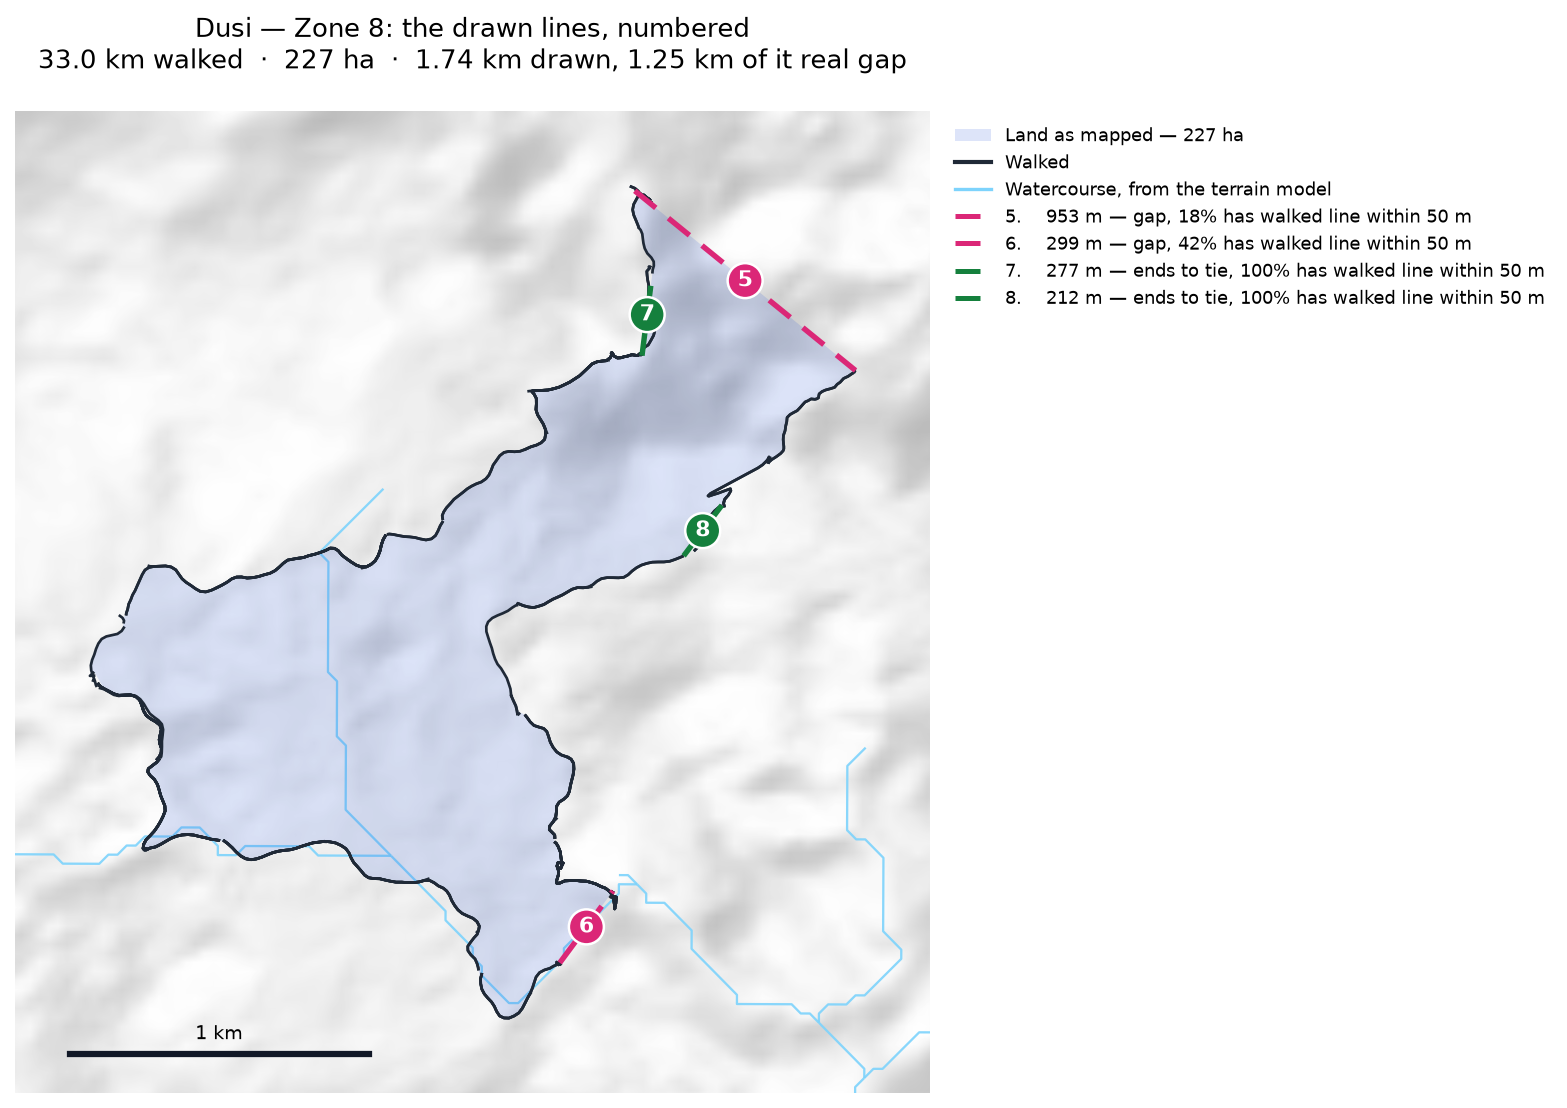
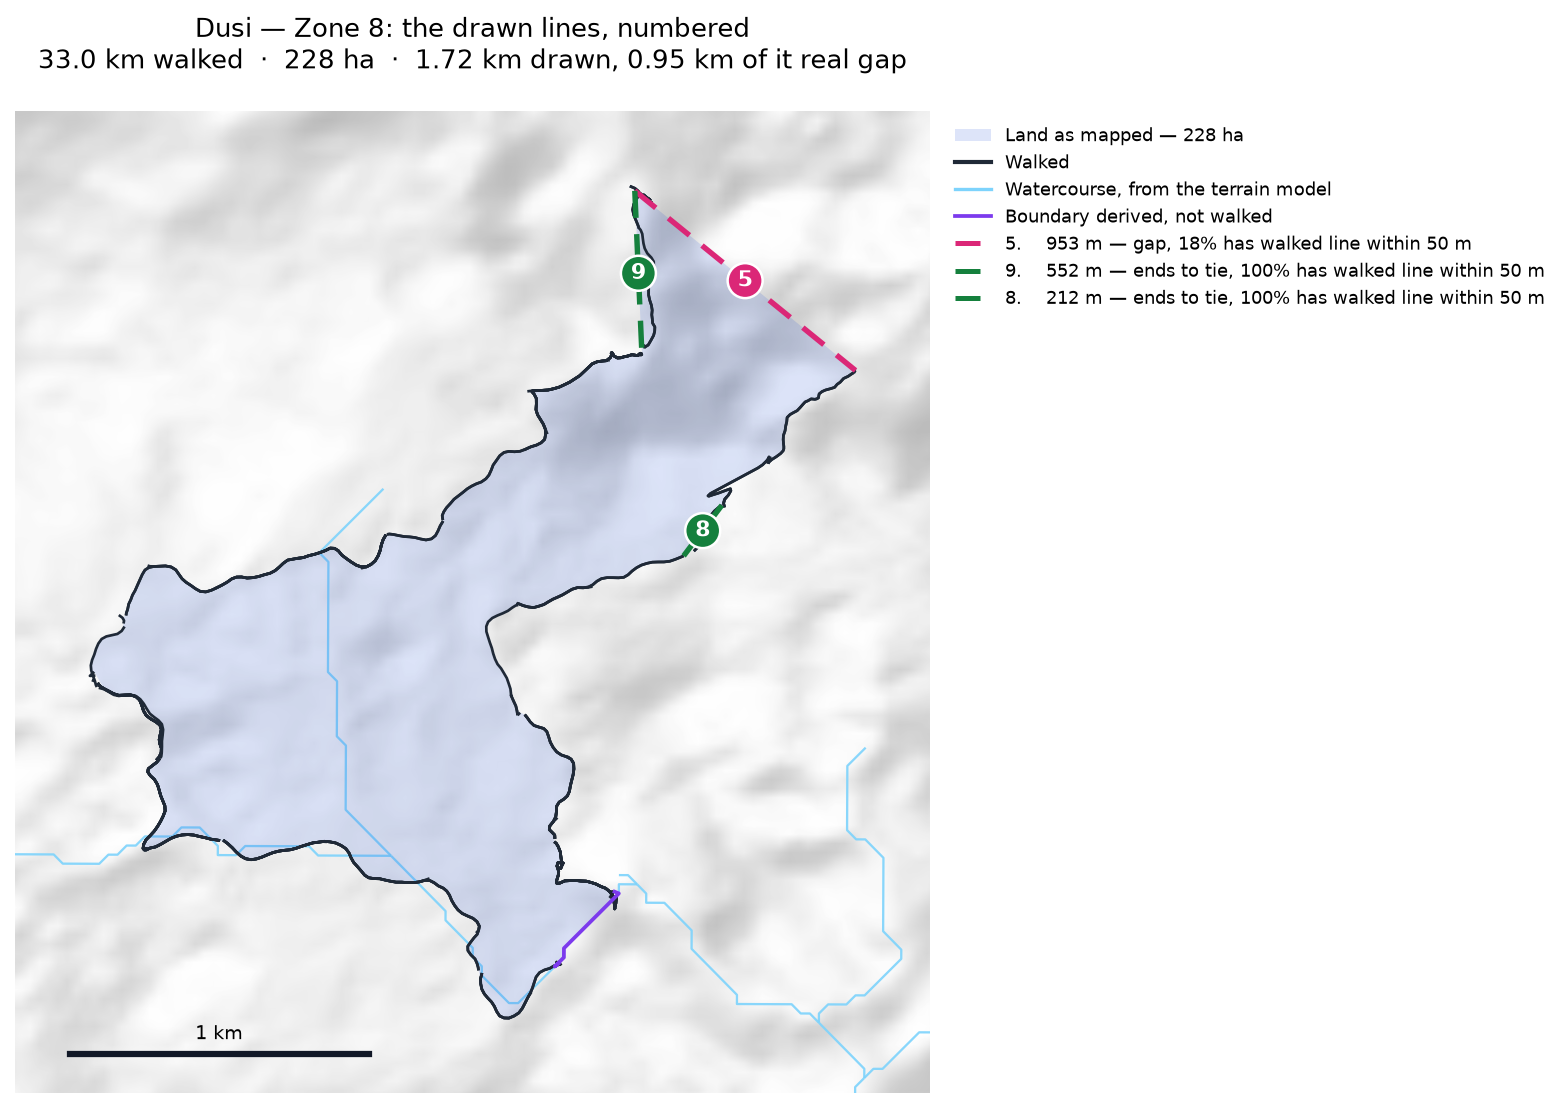
Pin agreed gaps so a later fix cannot move them; fix Dusi chord 6
Fixed is fixed. A gap that has been looked at on a map, traced back to what
the steward wrote at each end and agreed is a finding, and the next repair
must not be free to redraw it.

data/reference/agreed_gaps.json records a pinned gap per survey. It is put
into the graph before the closing step runs, so the closing step bridges
what is left around it. It stays a gap in every figure and on every map —
pinning settles where it runs, not what it is.

Dusi chord 5 pinned: the 953 m Savahun boundary with Anaje, hook to the
Guaipnun waterfall.

Dusi chord 6 adopted as river_routed, 377 m down the Gubai boundary river.
The note records that the shape is provisional: the course is traced from
the 30 m surface model, which is coarser than the steward's own walk of the
same river either side of it. What his notes establish is that the boundary
is this river, not the line it takes.

With the gap pinned, adopting chord 6 no longer destroys the north. The
clan reads 228 ha with one real gap, where the unpinned attempt gave 193 ha
and two invented chords.

Also: numbering() wrote the chord register unconditionally, so a render of
a rejected proposal issued numbers 9 and 10 and the next real run, finding
nothing it recognised, renamed the survey 11, 12, 13 in the middle of a
conversation about 5, 6, 7 and 8. It now takes record=False for anything
speculative. Dusi's numbers restored: 5 the gap, 8 unchanged, 9 the tie
that grew out of the old 7.
[…]

diff --git a/scripts/chord_map.py b/scripts/chord_map.py
@@ -59,12 +59,20 @@ WATER = "#7dd3fc"
 REGISTER = dataio.REPO_ROOT / "data" / "reference" / "chord_numbers.json"
 
 
-def numbering(unit: str, bridges: list) -> dict:
+def numbering(unit: str, bridges: list, record: bool = True) -> dict:
     """Stable numbers for this clan's drawn lines, kept between runs.
 
     Matched on where a line is, not on how long it is or where it sits in the
     order: a fix next door can change both. A line within 100 m of one seen
     before, by Hausdorff distance, is taken to be that line.
+
+    `record=False` for anything speculative. The numbers are what the survey
+    is discussed by — "fix chord 1", "chord 6 is fixed" — so a render of a
+    proposal that is then rejected must not leave its numbers behind. One
+    did: a throwaway proposal map issued 9 and 10 to lines that were never
+    accepted, and the next real run found nothing it recognised and renamed
+    the whole survey 11, 12, 13 in the middle of a conversation about 5, 6,
+    7 and 8.
     """
     import json
 
@@ -102,9 +110,11 @@ def numbering(unit: str, bridges: list) -> dict:
             out[index] = nxt
             nxt += 1
 
-    book[unit] = {str(out[i]): bridges[i].wkt for i in range(len(bridges))}
-    REGISTER.parent.mkdir(parents=True, exist_ok=True)
-    REGISTER.write_text(json.dumps(book, indent=1) + "\n", encoding="utf-8")
+    if record:
+        book[unit] = {str(out[i]): bridges[i].wkt for i in range(len(bridges))}
+        REGISTER.parent.mkdir(parents=True, exist_ok=True)
+        REGISTER.write_text(json.dumps(book, indent=1) + "\n",
+                            encoding="utf-8")
     return out
 
 
@@ -118,10 +128,10 @@ def parts_of(frame: gpd.GeoDataFrame) -> list:
 
 
 def classify(unit: str, bridges: list, walked, tolerance: float,
-             cut: float):
+             cut: float, record: bool = True):
     """Each drawn line, with how much of it already has walked line beside it."""
     ordered = sorted(bridges, key=lambda b: -b.length)
-    numbers = numbering(unit, ordered)
+    numbers = numbering(unit, ordered, record=record)
     rows = []
     for index, line in enumerate(ordered):
         near = line.intersection(walked.buffer(tolerance)).length / line.length

diff --git a/scripts/polygons.py b/scripts/polygons.py
@@ -87,10 +87,19 @@ def survey_polygon(parts: list, tolerance: float, min_enclosure: float,
 
     walked_m = sum(p.length for p in walked)
     total = sum(p.length for p in parts)
+
+    # Gaps already settled with the people reviewing this survey. They are
+    # clustered in with everything else so they attach to the right nodes,
+    # but they are not parts: nobody walked them and they are not boundary.
+    pinned = closure.agreed_gaps(unit)
+
     endpoints = []
     for part in parts:
         endpoints.append(part.coords[0][:2])
         endpoints.append(part.coords[-1][:2])
+    for gap_line in pinned:
+        endpoints.append(gap_line.coords[0][:2])
+        endpoints.append(gap_line.coords[-1][:2])
     labels = closure._cluster_endpoints(endpoints, tolerance)
     positions: dict = {}
     for index, label in enumerate(labels):
@@ -114,8 +123,18 @@ def survey_polygon(parts: list, tolerance: float, min_enclosure: float,
     closure._prune_spurs(edges, max_spur * distinct_m)
     live = [e for e in edges if e["live"]] or edges
 
-    chains = closure._chains(live, positions)
+    # A pinned gap goes into the graph before the closing step runs, so the
+    # closing step bridges what is left around it rather than redrawing over
+    # it. Fixed is fixed.
+    base = 2 * len(parts)
+    pinned_edges = [{"a": labels[base + 2 * j], "b": labels[base + 2 * j + 1],
+                     "length": pinned[j].length, "live": True}
+                    for j in range(len(pinned))]
+
+    chains = closure._chains(live + pinned_edges, positions)
     bridges, gap = _bridges(chains)
+    bridges = list(pinned) + bridges
+    gap = (gap or 0.0) + sum(g.length for g in pinned)
 
     bridged = _enclosed(snapped + bridges) if bridges else enclosed
 

diff --git a/scripts/closure.py b/scripts/closure.py
@@ -75,6 +75,39 @@ APPROVED_FIXES_PATH = (dataio.REPO_ROOT / "data" / "reference"
                        / "approved_fixes.json")
 
 
+AGREED_GAPS_PATH = (dataio.REPO_ROOT / "data" / "reference"
+                    / "agreed_gaps.json")
+
+
+def agreed_gaps(unit: str | None):
+    """Gaps whose two ends have been settled with the people reviewing them.
+
+    A gap that has been looked at on a map, traced back to what the steward
+    wrote at each end and agreed, is a finding. The next repair must not be
+    free to move it. Dusi's chord 5 was fixed to the corner marked 'Sawahun
+    broudre with anaje clan' and the Guaipnun waterfall; closing an
+    unrelated chord 700 m away then merged two components and the closing
+    step spanned the merged one by its two most distant nodes, so chord 5
+    disappeared and two invented lines took its place, 34 ha of the clan's
+    land with them.
+
+    A pinned gap is put into the graph before the closing step runs, so the
+    closing step works around it instead of over it. It is still a gap: not
+    walked, not boundary, counted as gap in every figure, and shown as one
+    on every map.
+    """
+    if not unit:
+        return []
+    try:
+        import json
+        from shapely import wkt
+        with open(AGREED_GAPS_PATH, encoding="utf-8") as handle:
+            register = json.load(handle)
+    except (OSError, ValueError):
+        return []
+    return [wkt.loads(entry["gap"]) for entry in (register.get(unit) or [])]
+
+
 def approved_fix(unit: str | None, fix: str) -> bool:
     """Whether `fix` has been approved for `unit`, and only for `unit`.
 
